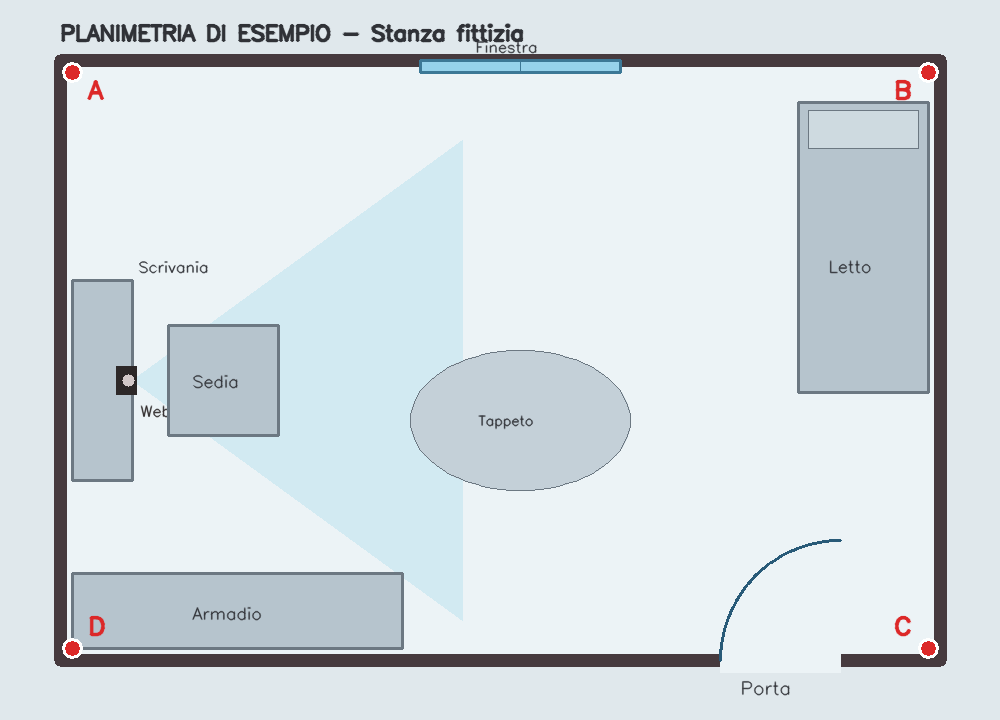
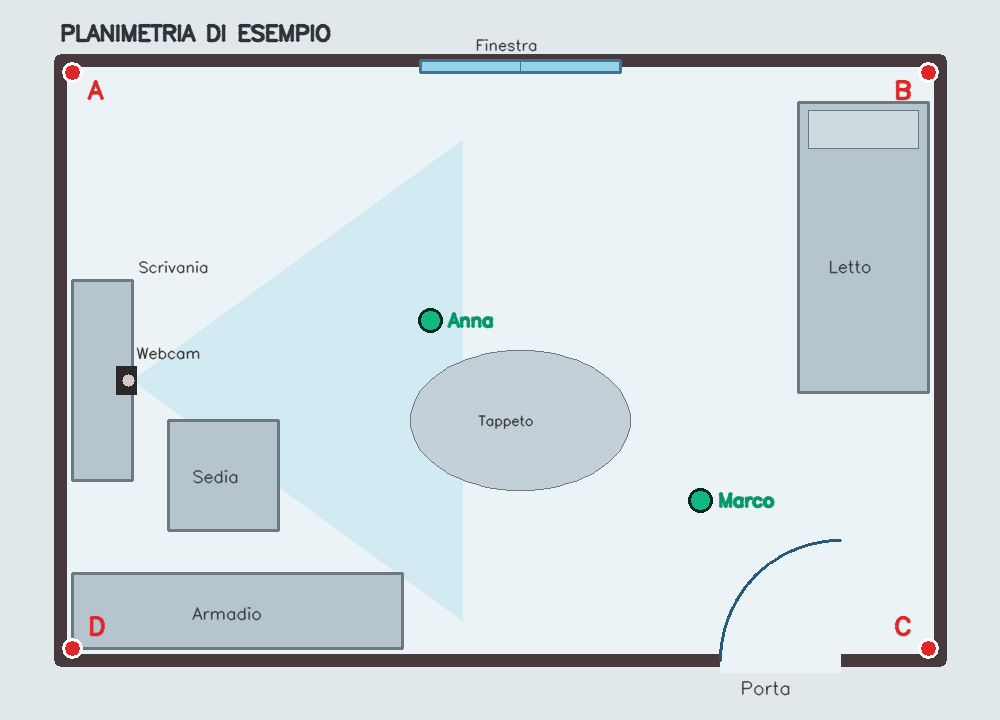
docs: planimetria di esempio con soggetti simulati
- titolo semplificato in "Planimetria di esempio" (via "stanza fittizia")
- aggiunti due pallini verdi con nome (Anna, Marco) che simulano i
  soggetti tracciati, nello stesso stile della vista Mappa live
- sistemata la sovrapposizione delle etichette Finestra/Webcam/Sedia
- didascalia README aggiornata

diff --git a/README.md b/README.md
@@ -161,8 +161,8 @@ flowchart LR
 Il sistema salva nel tempo la posizione di ogni soggetto **identificato** (cadenza configurabile, default 1 punto/s per persona per camera) e la proietta su una planimetria condivisa. Il re-identification tra camere è automatico: la stessa persona ha lo stesso `person_id` ovunque grazie all'embedding ArcFace.
 
 <div align="center">
-<img src="docs/floorplan-example.png" width="560" alt="Planimetria di esempio (stanza fittizia) con posizione camera e campo visivo" />
-<br/><sub><i>Planimetria di esempio (stanza fittizia) — i soggetti appaiono come pallini live nella vista Mappa.<br/>La propria planimetria si carica dalla pagina Calibra e resta solo in locale (la cartella è esclusa da git).</i></sub>
+<img src="docs/floorplan-example.png" width="560" alt="Planimetria di esempio con posizione camera, campo visivo e soggetti tracciati" />
+<br/><sub><i>Planimetria di esempio — i soggetti identificati appaiono come pallini verdi nella vista Mappa live.<br/>La propria planimetria si carica dalla pagina Calibra e resta solo in locale (la cartella è esclusa da git).</i></sub>
 </div>
 
 ### Due modalità di calibrazione (pagina `/calibrate`, con live feed della camera)
